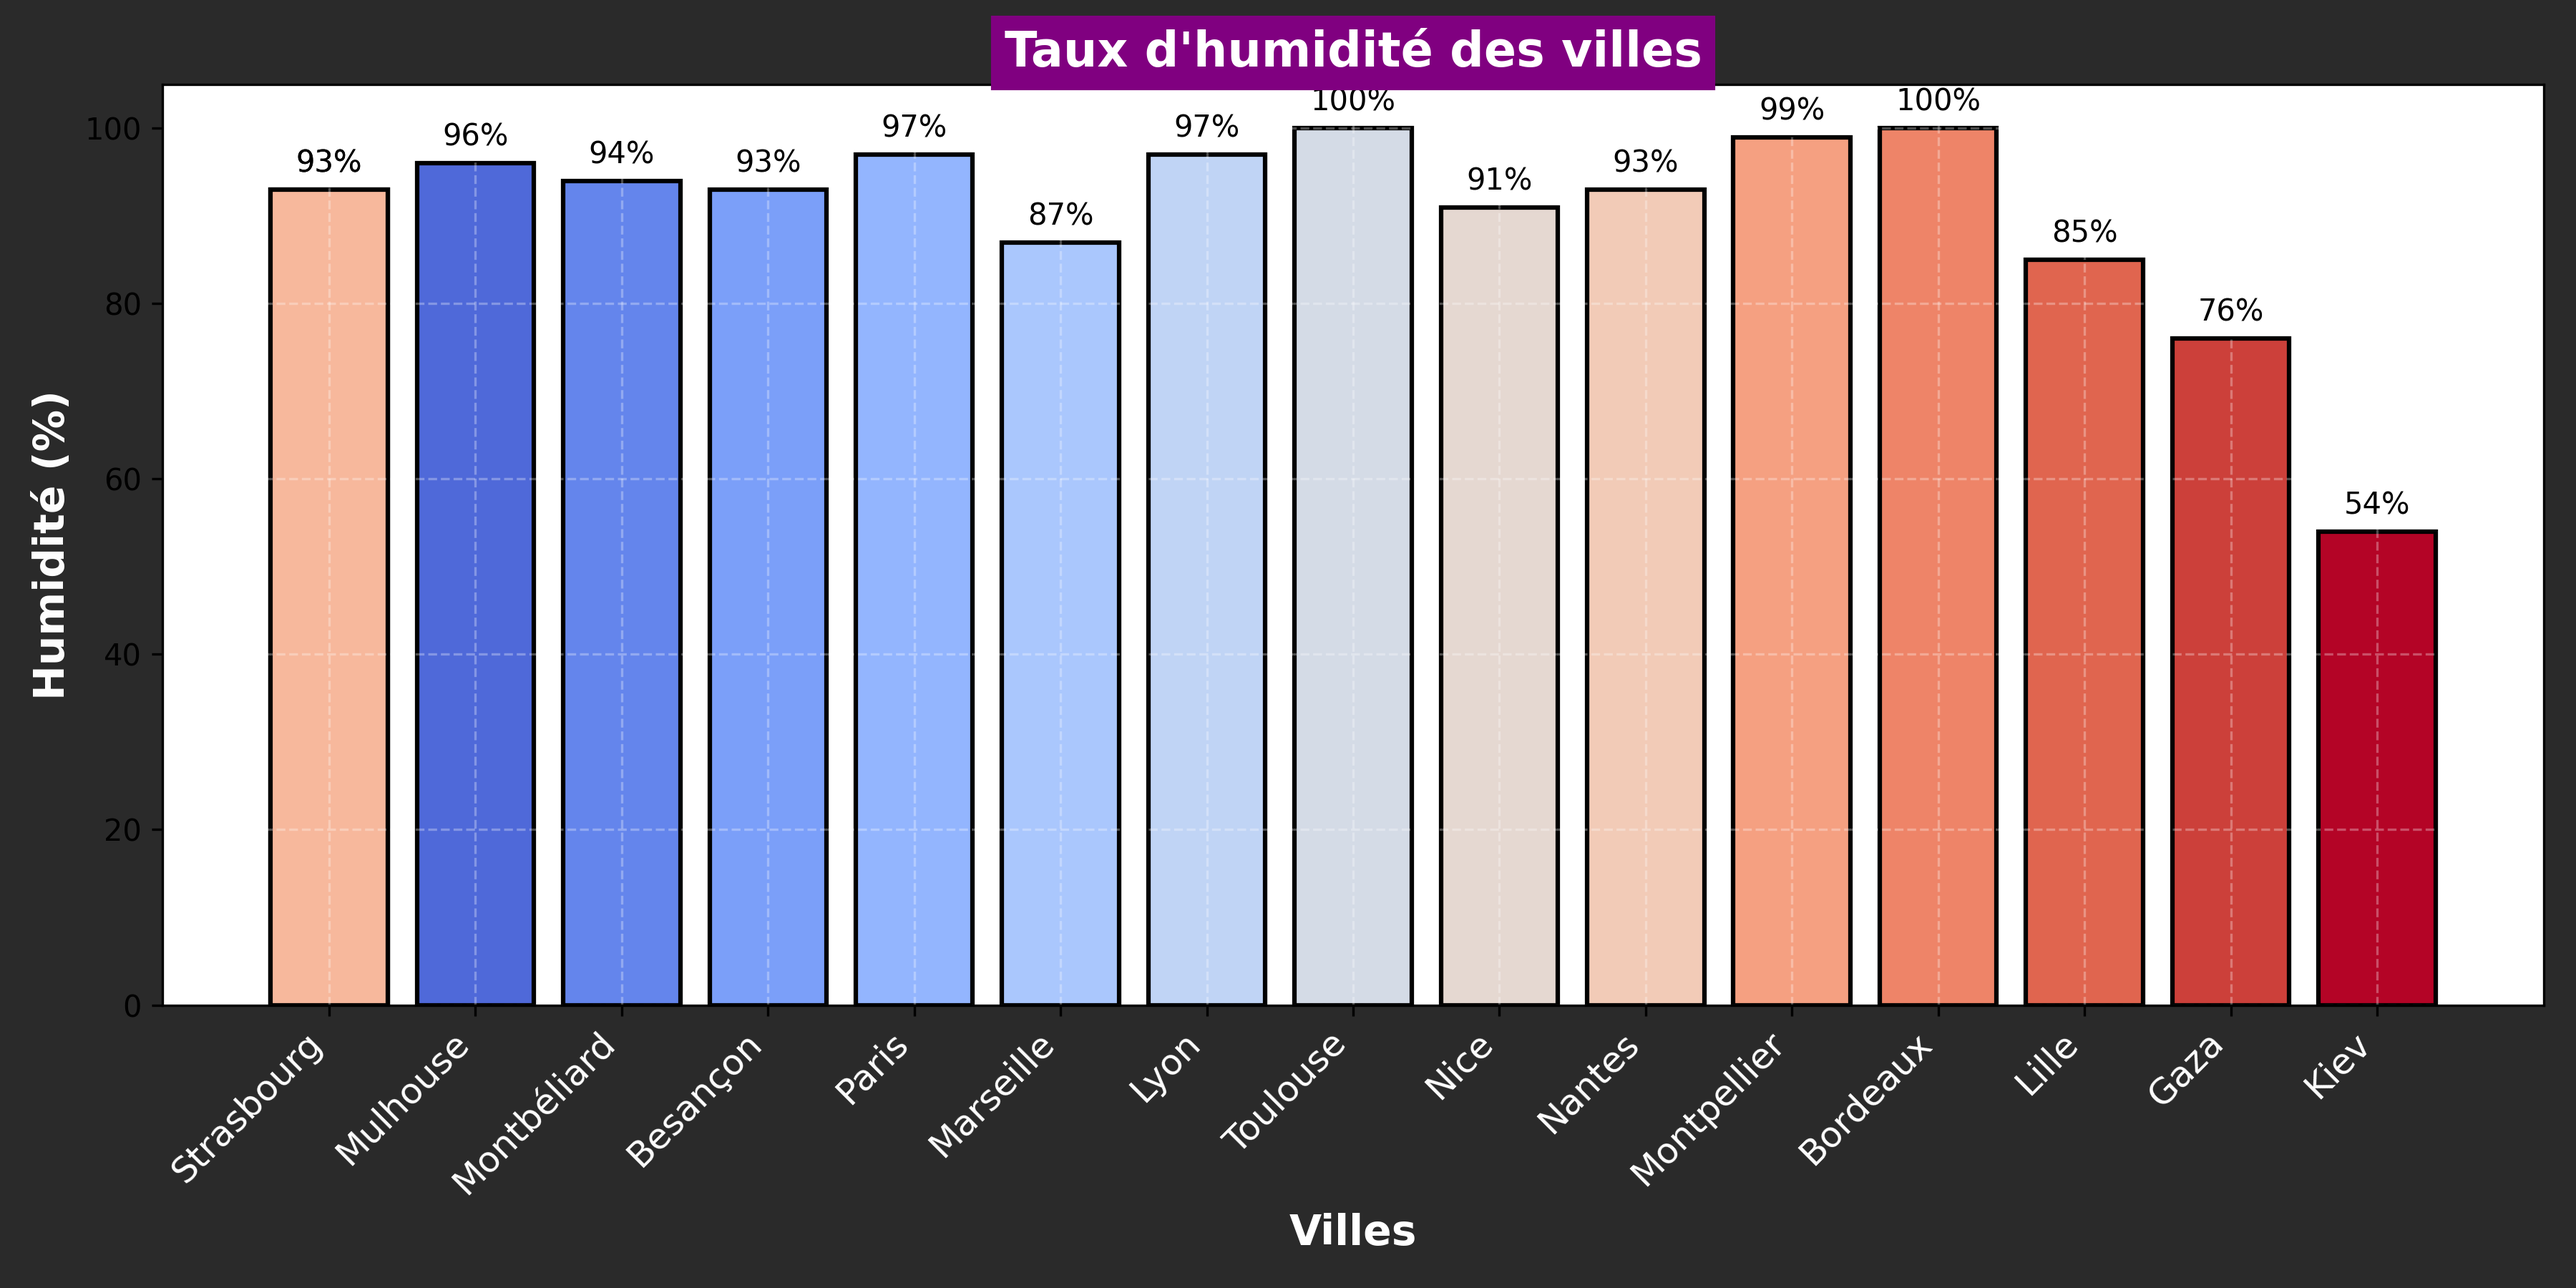
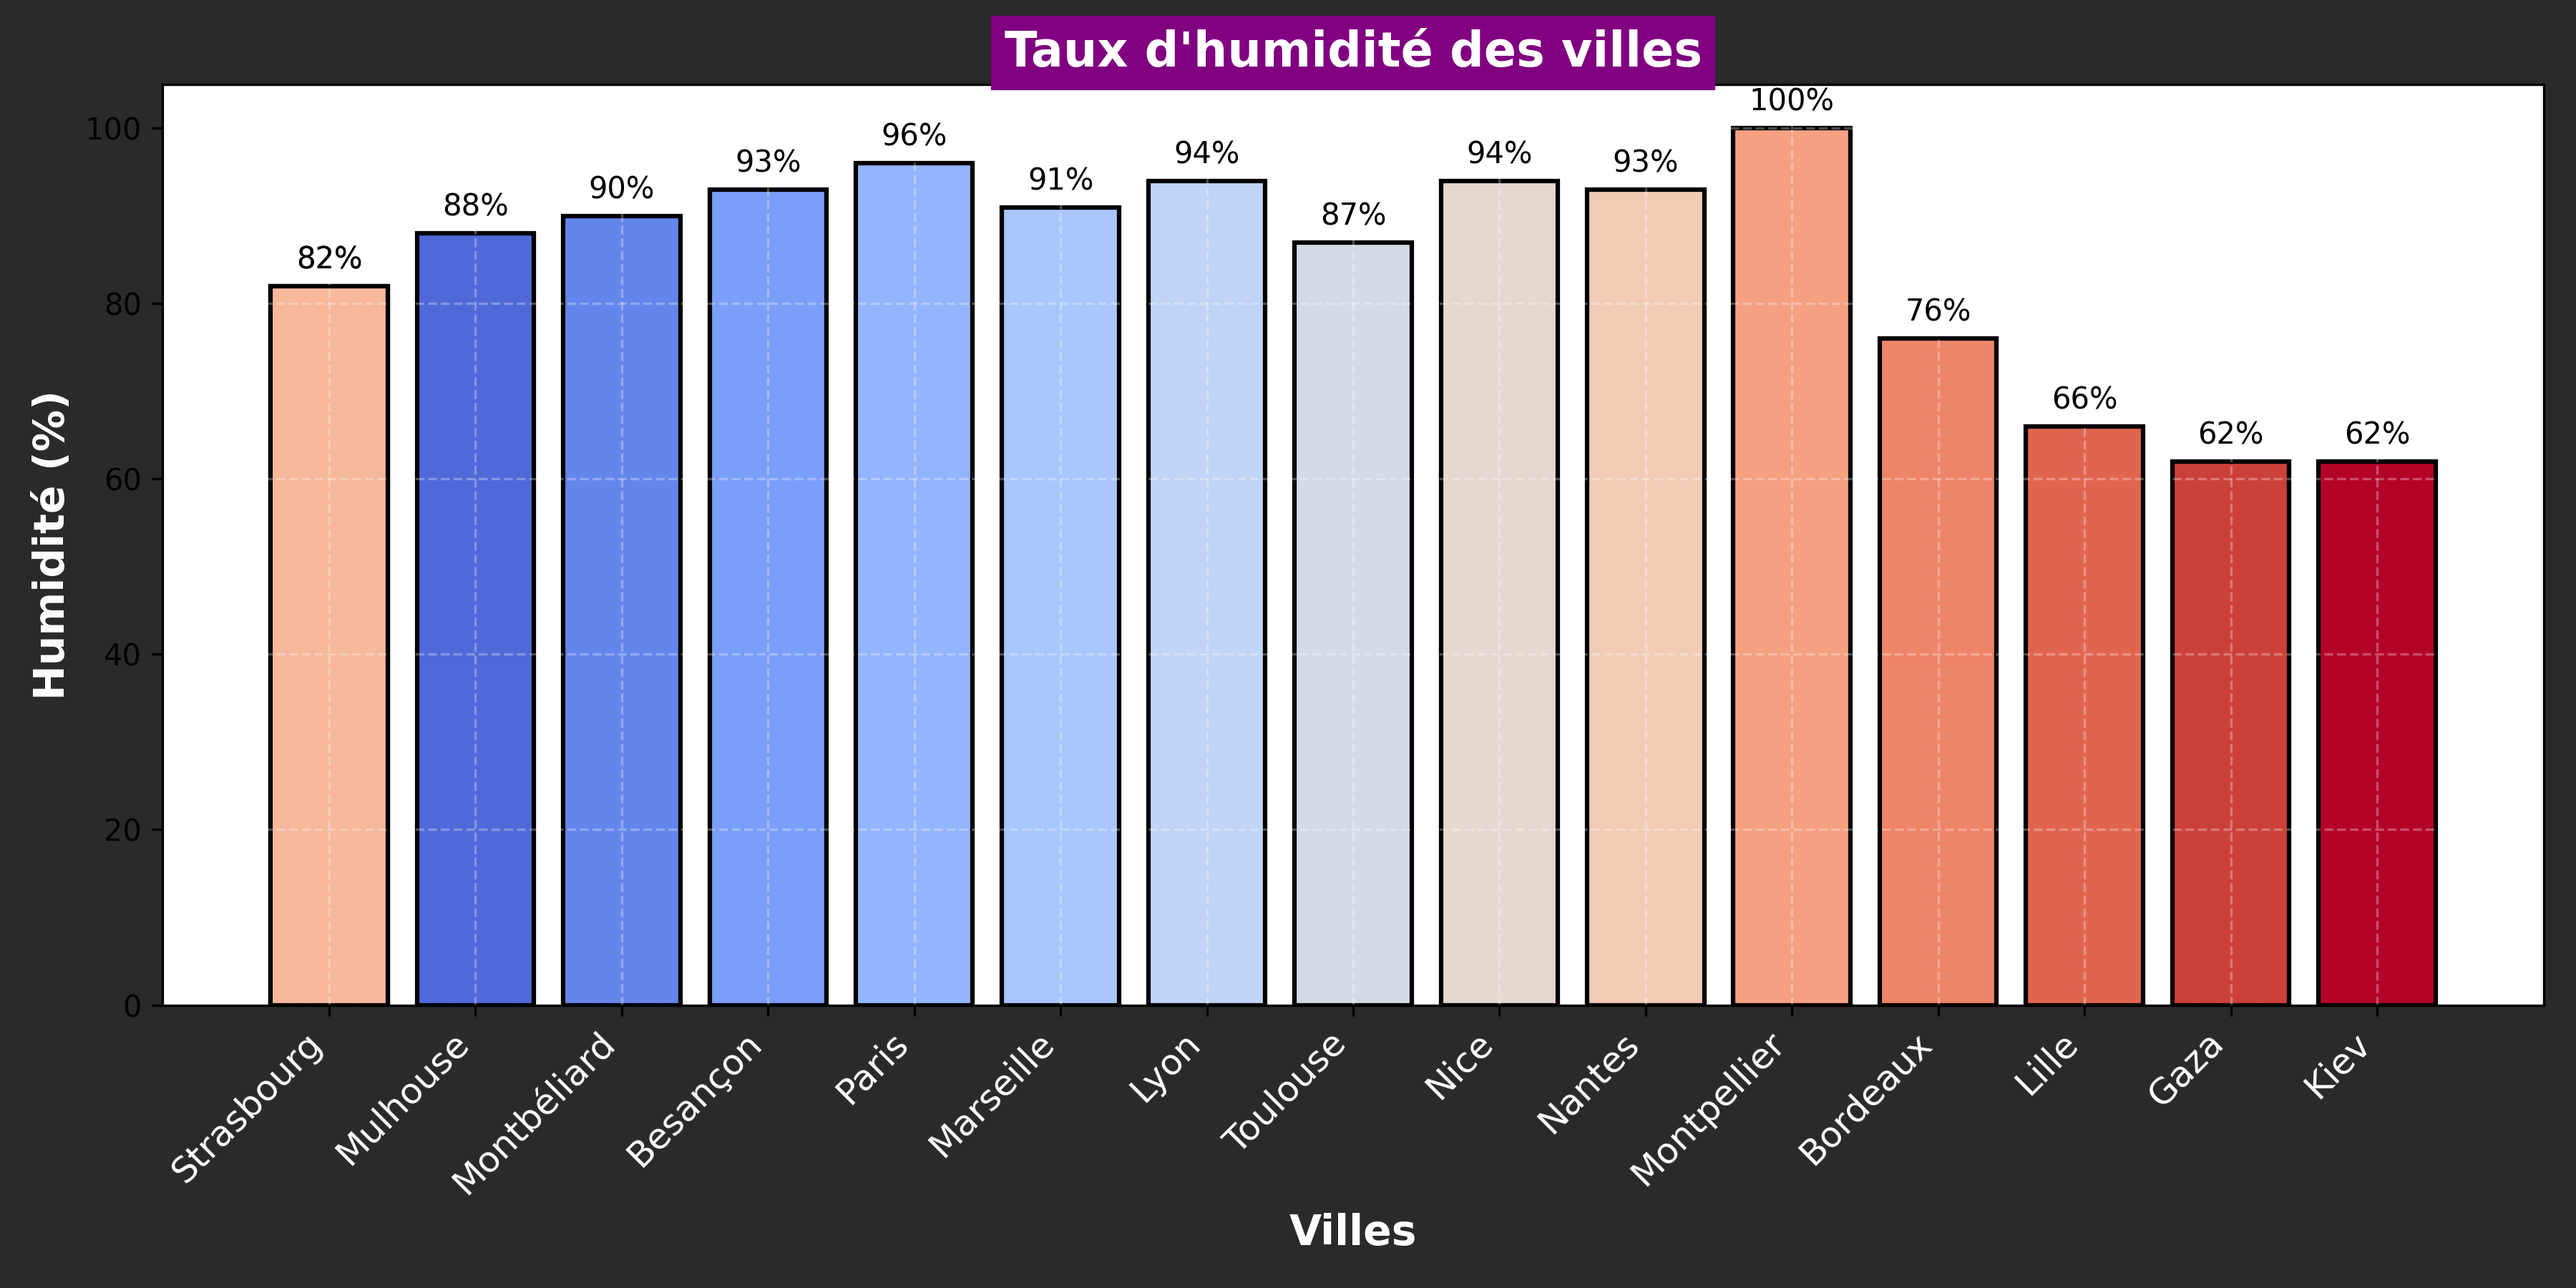
Mise à jour de la météo et ajout du graphique d'humidité

diff --git a/README.md b/README.md
@@ -24,103 +24,103 @@ Ce repo contient plusieurs workflows GitHub Actions :
 ## Météo actuelle :
 ## Météo des grandes villes + Gaza et Kiev 🌍
 
-🕒 Mise à jour : 14/04/2025 08:18:06
+🕒 Mise à jour : 15/04/2025 08:17:30
 
-### 🌍 Strasbourg 🌥
-**Conditions :** nuageux
-**Température :** 11.05°C
-**Humidité :** 93%
-**Vent :** 1.03 m/s
+### 🌍 Strasbourg ☀
+**Conditions :** ciel dégagé
+**Température :** 12.98°C
+**Humidité :** 82%
+**Vent :** 1.54 m/s
 
-### 🌍 Mulhouse 🌥
-**Conditions :** nuageux
-**Température :** 12.06°C
-**Humidité :** 96%
-**Vent :** 2.57 m/s
+### 🌍 Mulhouse 🌧
+**Conditions :** légère pluie
+**Température :** 11.83°C
+**Humidité :** 88%
+**Vent :** 1.54 m/s
 
 ### 🌍 Montbéliard 🌥
 **Conditions :** couvert
-**Température :** 12.77°C
-**Humidité :** 94%
-**Vent :** 0.73 m/s
+**Température :** 14.43°C
+**Humidité :** 90%
+**Vent :** 1.72 m/s
 
-### 🌍 Besançon 🌥
-**Conditions :** couvert
-**Température :** 9.63°C
+### 🌍 Besançon 🌧
+**Conditions :** légère pluie
+**Température :** 10.18°C
 **Humidité :** 93%
-**Vent :** 1.01 m/s
+**Vent :** 2.62 m/s
 
 ### 🌍 Paris 🌥
 **Conditions :** couvert
-**Température :** 8.37°C
-**Humidité :** 97%
-**Vent :** 2.06 m/s
+**Température :** 12.42°C
+**Humidité :** 96%
+**Vent :** 3.09 m/s
 
 ### 🌍 Marseille 🌥
 **Conditions :** couvert
-**Température :** 12.83°C
+**Température :** 11.72°C
+**Humidité :** 91%
+**Vent :** 3.88 m/s
+
+### 🌍 Lyon 🌧
+**Conditions :** pluie modérée
+**Température :** 9°C
+**Humidité :** 94%
+**Vent :** 1.98 m/s
+
+### 🌍 Toulouse 🌧
+**Conditions :** pluie modérée
+**Température :** 11.99°C
 **Humidité :** 87%
-**Vent :** 1.83 m/s
-
-### 🌍 Lyon 🌥
-**Conditions :** nuageux
-**Température :** 8.52°C
-**Humidité :** 97%
-**Vent :** 0.19 m/s
-
-### 🌍 Toulouse 🌫
-**Conditions :** brume
-**Température :** 10.99°C
-**Humidité :** 100%
-**Vent :** 1.54 m/s
+**Vent :** 7.72 m/s
 
 ### 🌍 Nice 🌥
 **Conditions :** couvert
-**Température :** 8.61°C
-**Humidité :** 91%
-**Vent :** 2.25 m/s
+**Température :** 6.39°C
+**Humidité :** 94%
+**Vent :** 2.18 m/s
 
 ### 🌍 Nantes 🌥
-**Conditions :** couvert
-**Température :** 8.96°C
-**Humidité :** 93%
-**Vent :** 3.09 m/s
-
-### 🌍 Strasbourg 🌥
 **Conditions :** nuageux
-**Température :** 11.05°C
+**Température :** 10.96°C
 **Humidité :** 93%
-**Vent :** 1.03 m/s
+**Vent :** 4.63 m/s
+
+### 🌍 Strasbourg ☀
+**Conditions :** ciel dégagé
+**Température :** 12.98°C
+**Humidité :** 82%
+**Vent :** 1.54 m/s
 
 ### 🌍 Montpellier 🌥
-**Conditions :** bruine
-**Température :** 13.05°C
-**Humidité :** 99%
-**Vent :** 3.09 m/s
-
-### 🌍 Bordeaux ☀
-**Conditions :** ciel dégagé
-**Température :** 7.15°C
+**Conditions :** couvert
+**Température :** 14.16°C
 **Humidité :** 100%
-**Vent :** 2.06 m/s
+**Vent :** 8.75 m/s
+
+### 🌍 Bordeaux 🌥
+**Conditions :** couvert
+**Température :** 12.15°C
+**Humidité :** 76%
+**Vent :** 5.14 m/s
 
 ### 🌍 Lille ☀
 **Conditions :** ciel dégagé
-**Température :** 8.3°C
-**Humidité :** 85%
-**Vent :** 2.06 m/s
+**Température :** 12.57°C
+**Humidité :** 66%
+**Vent :** 3.09 m/s
 
-### 🌍 Gaza 🌧
-**Conditions :** légère pluie
-**Température :** 16.14°C
-**Humidité :** 76%
-**Vent :** 3.82 m/s
+### 🌍 Gaza 🌥
+**Conditions :** partiellement nuageux
+**Température :** 17.24°C
+**Humidité :** 62%
+**Vent :** 5.07 m/s
 
 ### 🌍 Kiev 🌥
-**Conditions :** peu nuageux
-**Température :** 10.2°C
-**Humidité :** 54%
-**Vent :** 4.97 m/s
+**Conditions :** couvert
+**Température :** 9.29°C
+**Humidité :** 62%
+**Vent :** 1.34 m/s
 
 <p align='center'><img src='https://raw.githubusercontent.com/khoa083/khoa/main/Khoa_ne/img/Rainbow.gif' width='100%' style='border-radius: 5px; border: 3px solid #39FF14; box-shadow: 0 0 10px #39FF14, 0 0 20px #39FF14;' /></p>
 
